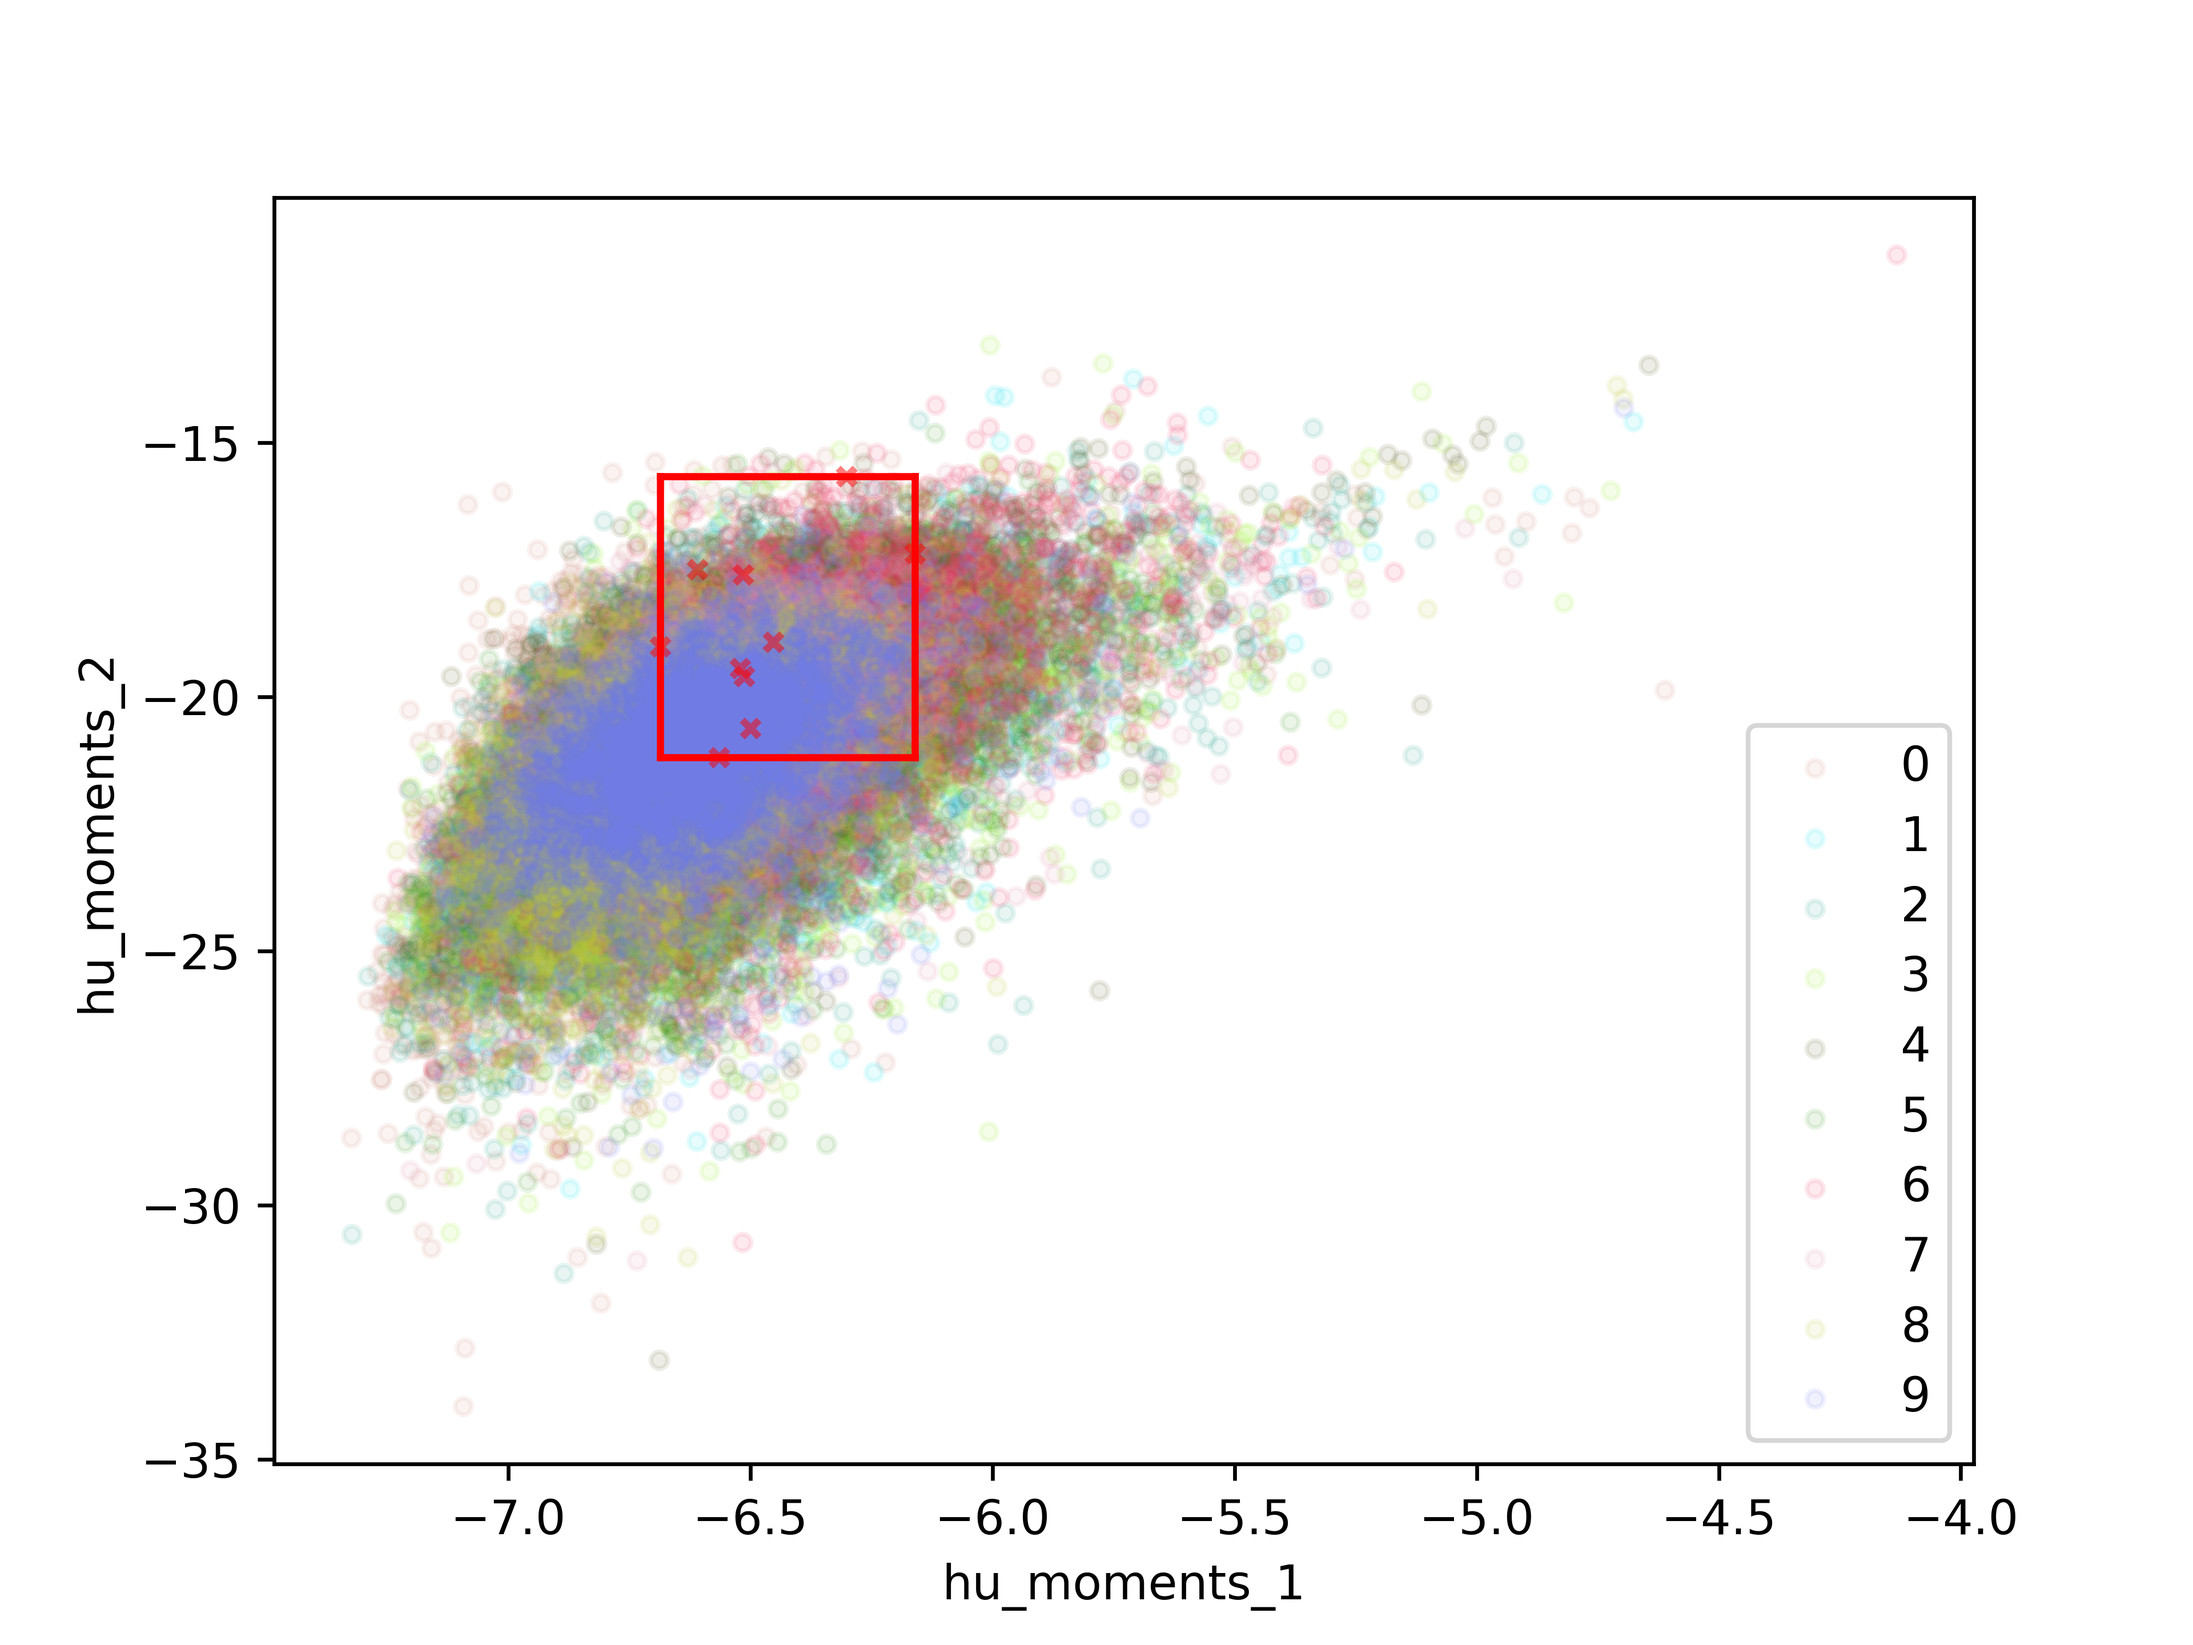
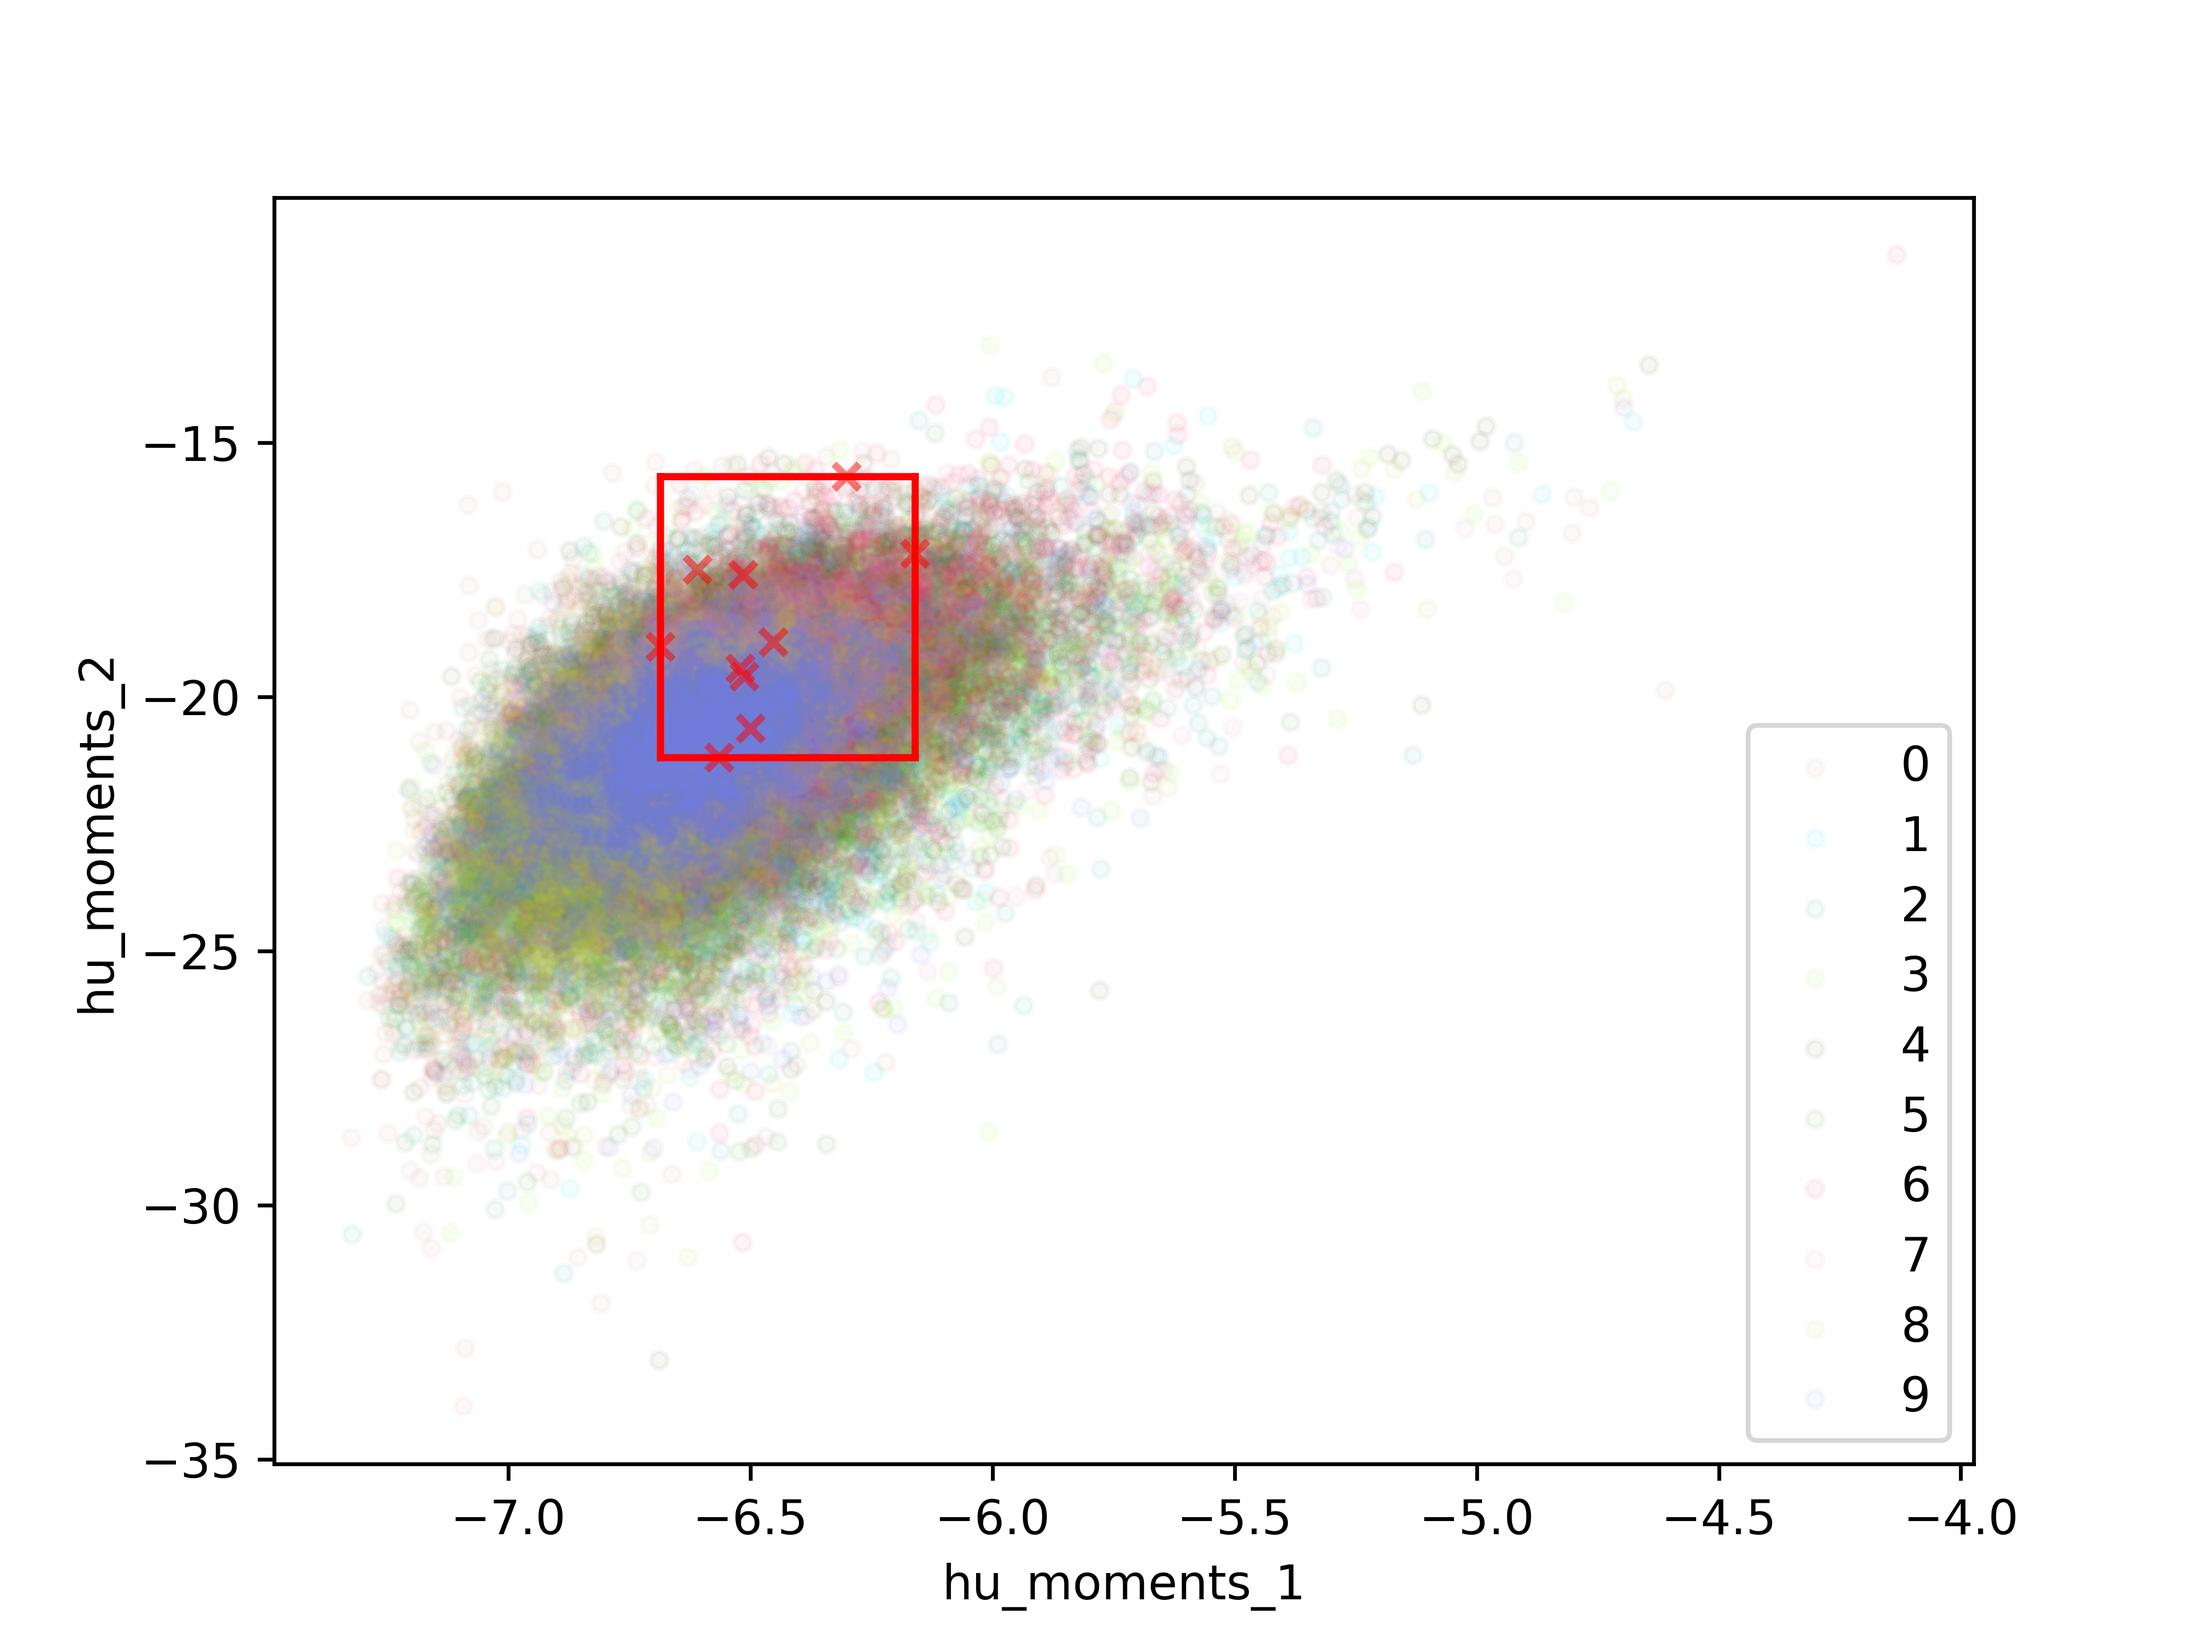
init submit

Changed region(s): [[0.1562, 0.2812, 0.625, 0.7188]]

diff --git a/cifar10_data/hu_moment.py b/cifar10_data/hu_moment.py
@@ -79,14 +79,15 @@ def plot_humoments(train_images, train_labels, calib_file_path=None, plot_idx=No
             cls = train_plot_list[0][i][0]
             train_x = np.log(np.abs(train_plot_list[1][i]))  # hu_moments_1
             train_y = np.log(np.abs(train_plot_list[2][i]))  # hu_moments_1
-            plt.scatter(train_x, train_y, s=area, c=colors[(cls)], alpha=0.1, label=cls)
+            plt.scatter(train_x, train_y, s=area, c=colors[(cls)], alpha=0.05, label=cls)
 
     else:
         cls = train_plot_list[0][plot_idx][0]
         train_x = np.log(np.abs(train_plot_list[1][plot_idx])) # hu_moments_1
         train_y = np.log(np.abs(train_plot_list[2][plot_idx])) # hu_moments_2
-        plt.scatter(train_x, train_y, s=area, c=colors[cls], alpha=0.1, label='cls_num:' + str(cls))
+        plt.scatter(train_x, train_y, s=area, c=colors[cls], alpha=0.05, label='cls_num:' + str(cls))
 
+    area = np.pi * 3 ** 2
     calib_x = np.log(np.abs(calib_plot_list[0]))  # hu_moments_1
     calib_y = np.log(np.abs(calib_plot_list[1]))  # hu_moments_2
     plt.scatter(calib_x, calib_y, s=area, marker='x', c='red', alpha=0.5)
@@ -125,7 +126,7 @@ if __name__ == '__main__':
 
     images = np.vstack((images_1, images_2, images_3, images_4, images_5))
     labels = np.vstack((labels_1, labels_2, labels_3, labels_4, labels_5))
-    calib_file_path = 'calib_dataset_40/'
-    output_file = 'calib_dataset_40' + '.png'
+    calib_file_path = 'calib_dataset_10/'
+    output_file = 'calib_dataset_10' + '.png'
     plot_humoments(images.reshape(50000,32,32,3), labels.reshape(50000,1), plot_idx=None, \
                    calib_file_path=calib_file_path, output_file=output_file)
